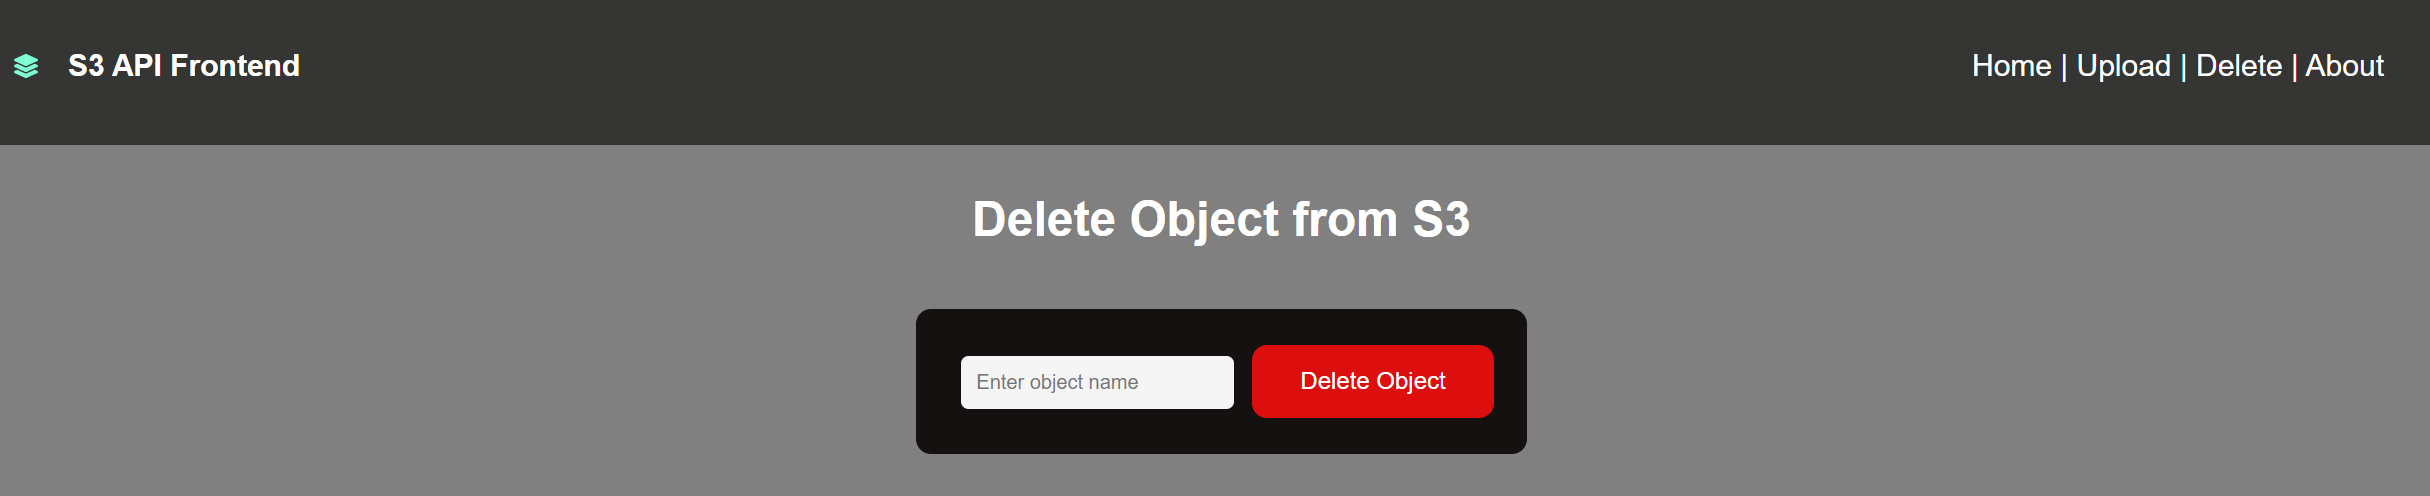
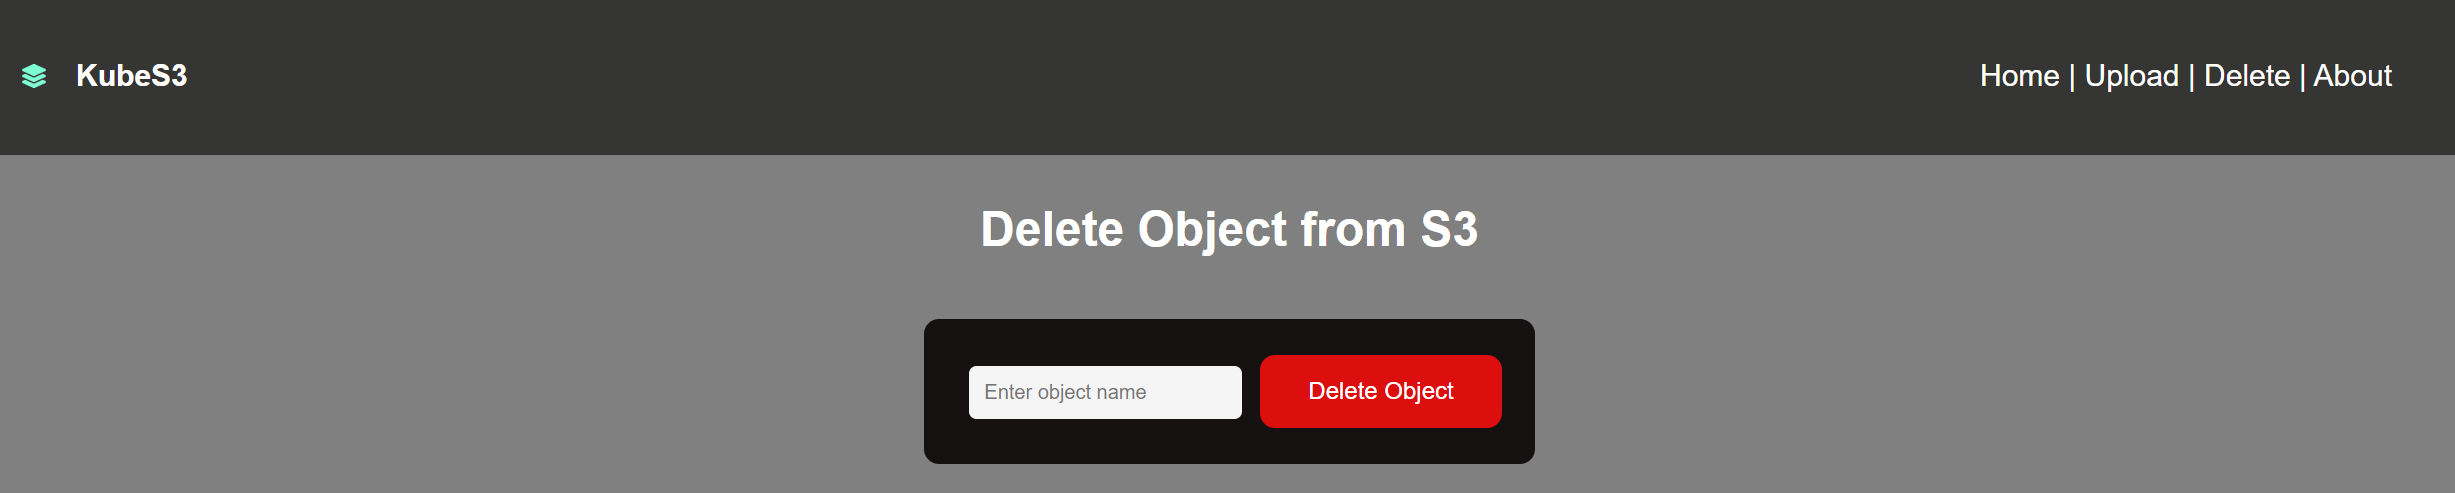
Changed name to KubeS3.

diff --git a/spa/src/components/Header.js b/spa/src/components/Header.js
@@ -10,7 +10,7 @@ const Header = () => {
   return (
     <header className="header">
       <HeaderIcon className="header--icon"/>
-      <h2 className="header--title">S3 API Frontend</h2>
+      <h2 className="header--title">KubeS3</h2>
       <nav className="header--nav">
         <Link to="/">Home</Link> |{" "}
         <Link to="/upload">Upload</Link> |{" "}

diff --git a/spa/public/index.html b/spa/public/index.html
@@ -7,9 +7,9 @@
     <meta name="theme-color" content="#000000" />
     <meta
       name="description"
-      content="Web site created using create-react-app"
+      content="Frontend for KubeS3"
     />
-    <title>S3 API Frontend</title>
+    <title>KubeS3</title>
   </head>
   <body>
     <noscript>You need to enable JavaScript to run this app.</noscript>

diff --git a/spa/src/routes/About.js b/spa/src/routes/About.js
@@ -14,7 +14,7 @@ const About = () => {
       </a>
       <br></br>
       <h3>Visit my personal Website</h3>
-      <a className="github--link" href="https://github.com/xamma" target="_blank" rel="noreferrer">
+      <a className="github--link" href="https://xamma.github.io" target="_blank" rel="noreferrer">
         Visit me
       </a>
     </div>

diff --git a/Readme.md b/Readme.md
@@ -1,4 +1,4 @@
-# DevOps - Basics and not-so Basics
+# KubeS3
 This is an comprehensive project including some of the technologies used in software
 engineering and DevOps.  
 It is based on my personal knowledge which I acquired by myself over time and learned from different projects.  
@@ -42,8 +42,8 @@ If you dont pass ENVs the default user is **minio** and Password is **miniosecre
 
 ### Dev-Environment with Docker-compose
 ```
-docker-compose up -d
 docker-compose build --no-cache
+docker-compose up -d
 ```
 
 ### Deploy to Kubernetes
